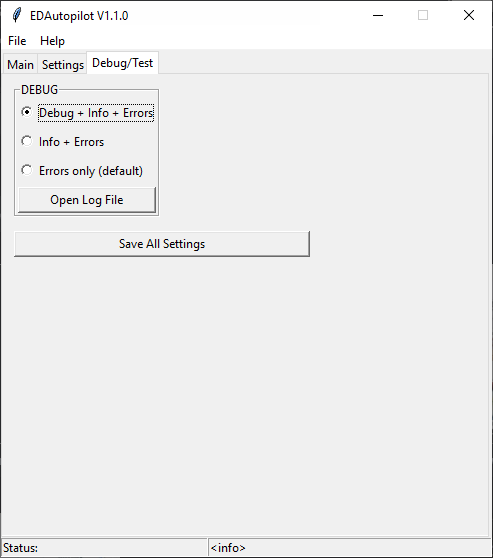
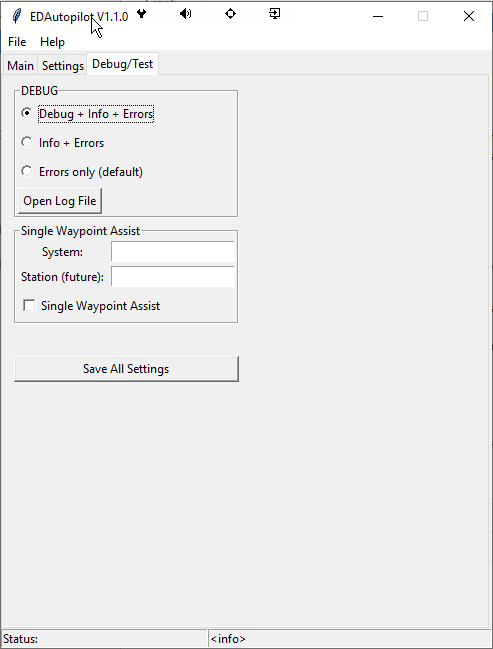
Updated docs and screenshot.

diff --git a/readme.md b/readme.md
@@ -19,6 +19,10 @@ Additional information can be found [here](docs/Waypoint.md).
 The Robigo Assist performs the Robigo Mines passenger mission loop which includes mission selection, mission completetion, and the full loop to Sirius Atmospherics.<br>
 Additional information can be found [here](docs/Robigo.md). 
 ## AFK Combat escape assist
+## Single Waypoint assist
+Note: Currently available on the debug tab.
+
+With Single Waypoint Assist you define the target system in the text box (paste from Inara/Spansh etc.) and click the checkbox to plot a route and jump to that system.<br>
 
 ## Additional Features
 If Voice enabled, the autopilot will inform you of its actions
